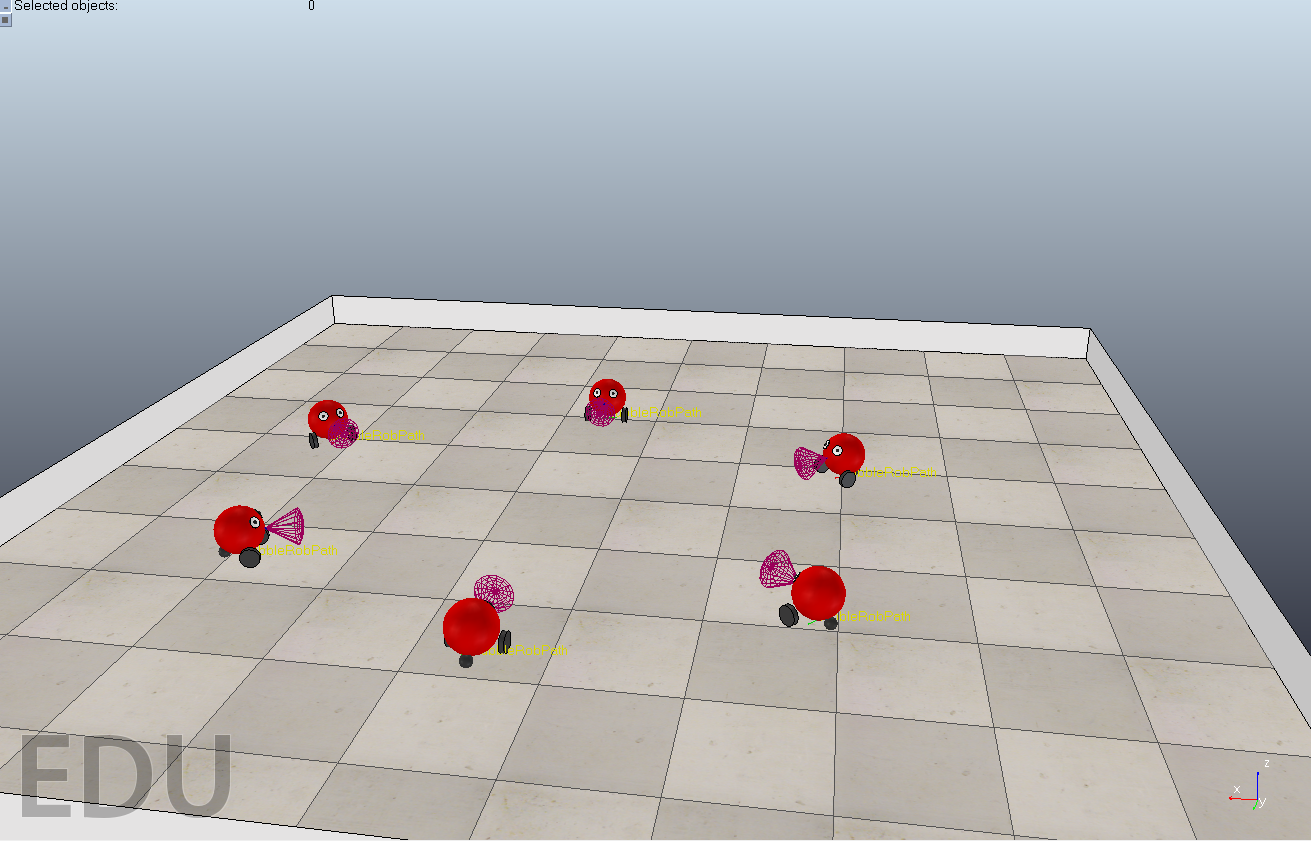
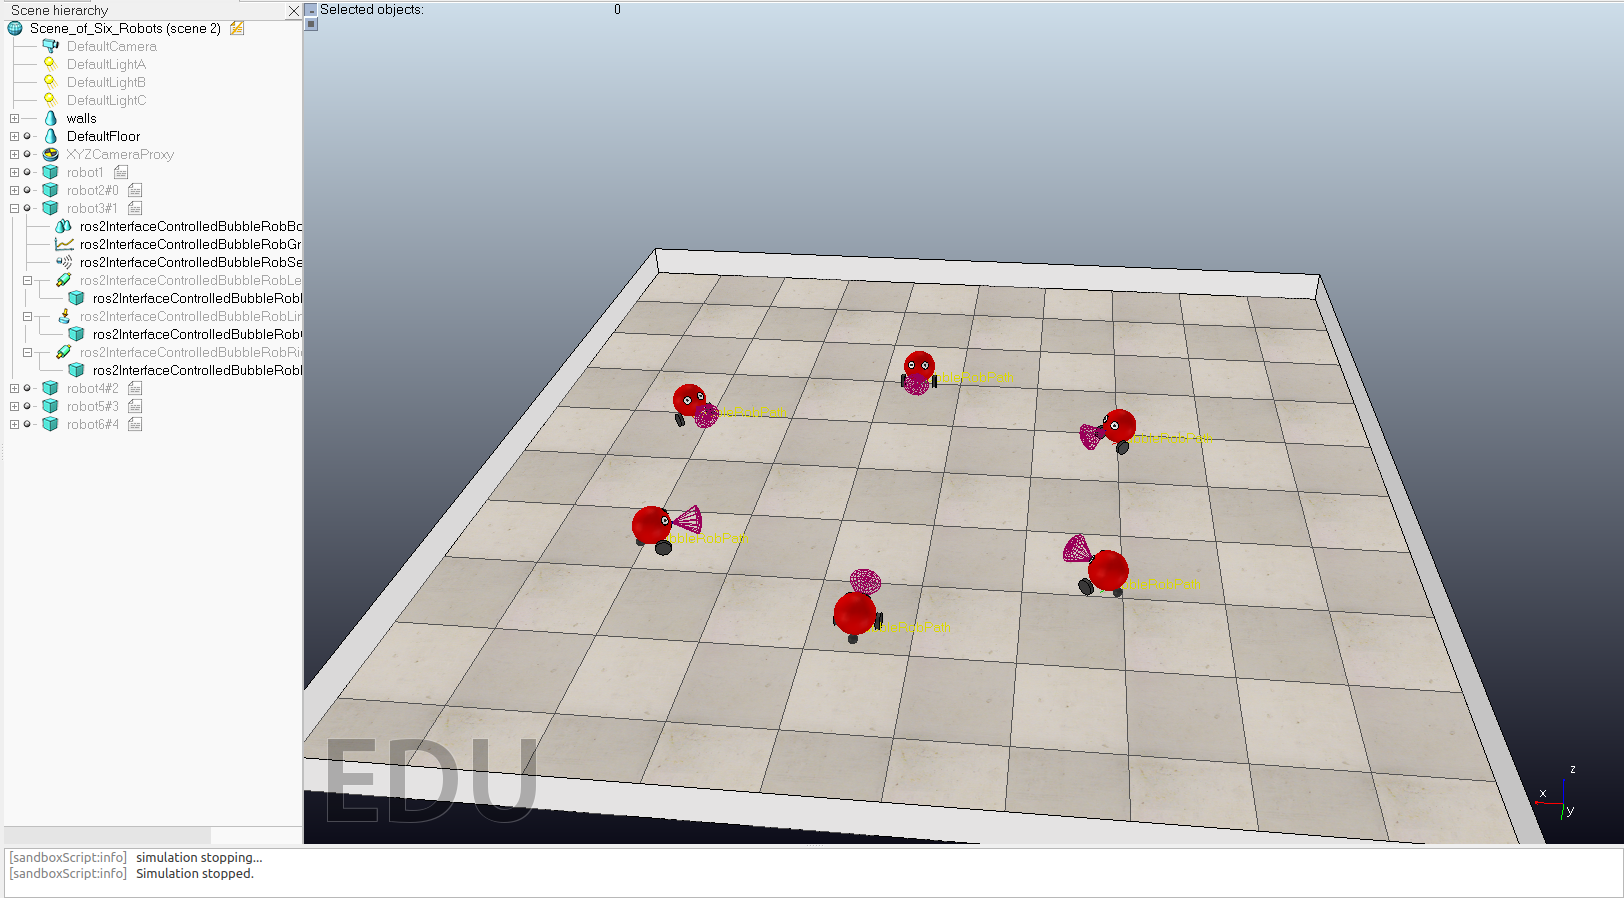
edit README

diff --git a/Two Robots Topology Graph/README.md b/Two Robots Topology Graph/README.md
@@ -1,2 +1,8 @@
-# Graph Neural Network for 2 Robots
+# Graph Neural Neta for Two Robots
 
+We first run a vanilla consensus algorithm, and start collecting data of relative poses for robot i w.r.t robot j and it's corresponding local input for each robot.
+
+## Training data
+For our first experiment, we collected two dataset's for each corresponding robot. We later will use this data to train our first graph neural networks architecture on, 
+which takes the relative position of each robot i w.r.t robot j in the local transformation frame and it's corresponding control input Uj as an output. Value's are saved within two seperate 
+CSV files for each robot. 
